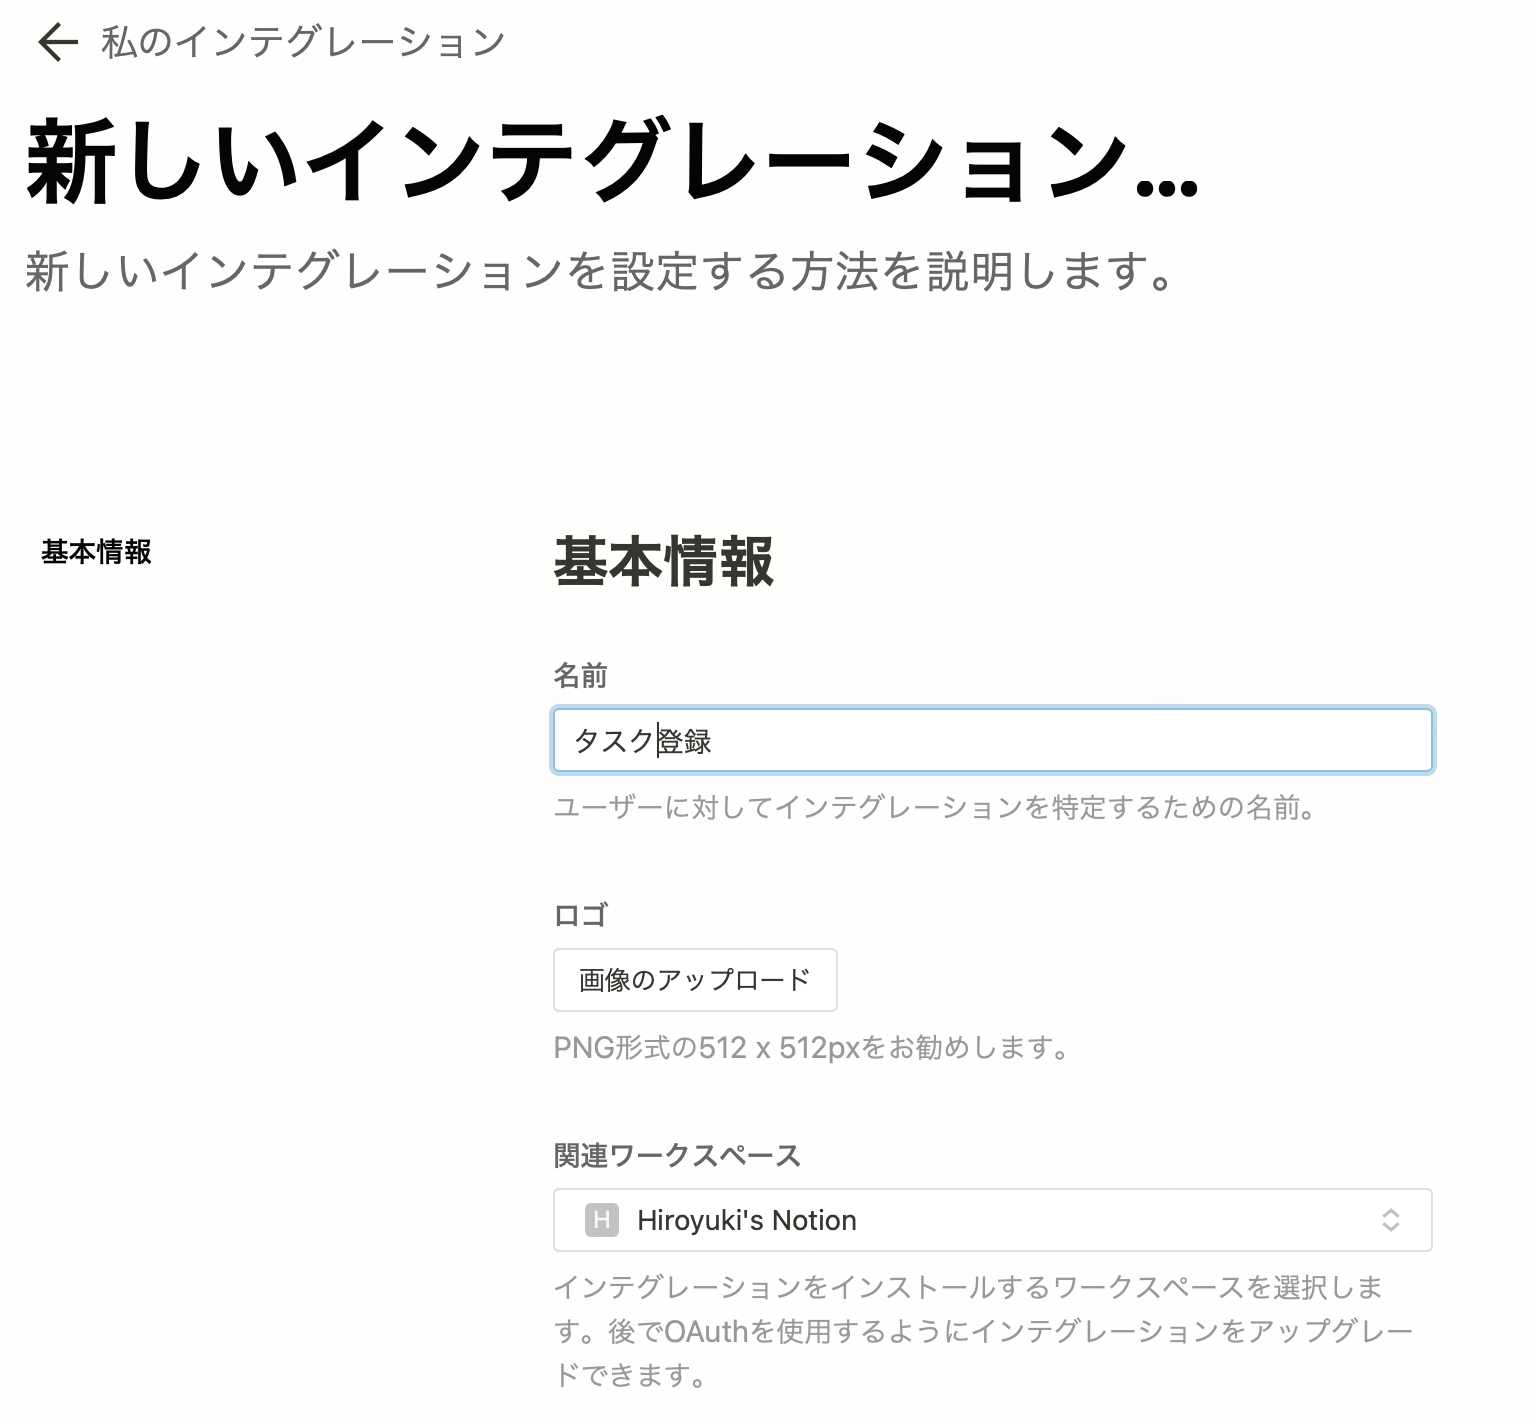
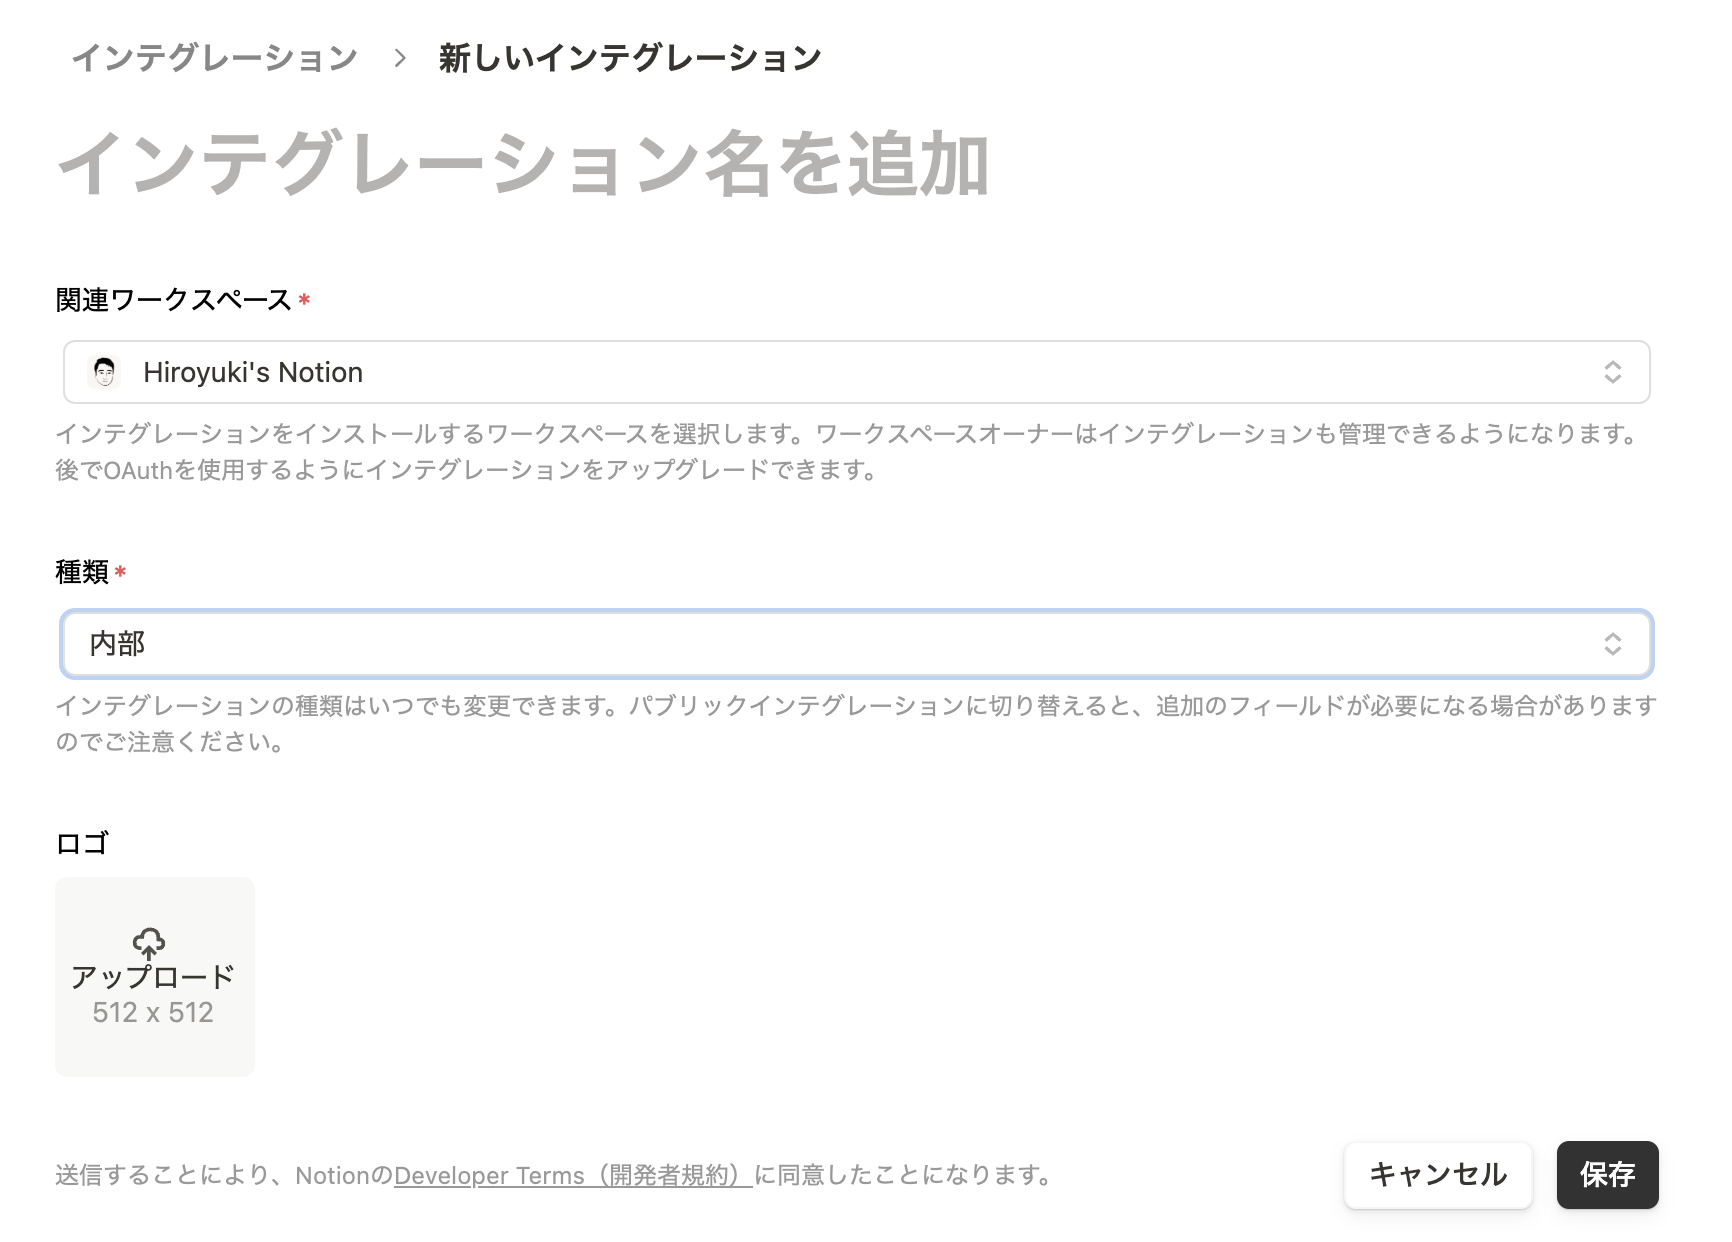
Changed database query to search endpoint

diff --git a/notion-code-block-quick-action.js b/notion-code-block-quick-action.js
@@ -1,8 +1,6 @@
 // ########## Personal settings ##########
-// Set your Notion API Token (strings that starts with `secret_`)
+// Set your Notion API Token (strings that starts with `ntn_` or `secret_`)
 const NOTION_API_TOKEN = "secret_XXXXXXXXXXXXXXXXXXXXXXXX"
-// Set your database ID (32-digits hex number)
-const DATABASE_ID = "YYYYYYYYYYYYYYYYYYYYYYYYYYY"
 // Set default language
 const DEFAULT_LANGUAGE = "shell"
 // If you want to open a new task by Notion.app, set true.  If you want to open it by your default browser, set false.
@@ -34,28 +32,26 @@ function dialogText(app, input) {
 function sendNotion(app, url, payload, method) {
   const header = " --header 'Authorization: Bearer '" + NOTION_API_TOKEN + "'' "  +
     "--header 'Content-Type: application/json' " +
-    "--header 'Notion-Version: 2021-08-16' " +
+    "--header 'Notion-Version: 2022-06-28' " +
     "--data '"
-  const script = "curl -X " + method + " " + url + header + JSON.stringify(payload).replaceAll("'", '\'"\'"\'') + "'"
+  const script = "curl -X " + method + " " + url + header + payload.replaceAll("'", '\'"\'"\'') + "'"
   return JSON.parse(app.doShellScript(script))
 }
 
-function getNotionPages(app, payload, databaseId) {
-  const url = "https://api.notion.com/v1/databases/" + databaseId + "/query"
+function getNotionPages(app, payload) {
+  const url = "https://api.notion.com/v1/search"
   return sendNotion(app, url, payload, "POST")
 }
 
-function getLastEditedPage(app, databaseId) {
+function getLastEditedPage(app) {
   const payload = {
-    sorts: [
-      {
-        timestamp: "last_edited_time",
-        direction: "descending"
-      }
-    ],
+    sort: {
+      timestamp: "last_edited_time",
+      direction: "descending"
+    },
     page_size: 1
   }
-  return getNotionPages(app, payload, databaseId)
+  return getNotionPages(app, JSON.stringify(payload))
 }
 
 function appendBlockChildren(app, pageId, payload) {
@@ -66,26 +62,23 @@ function appendBlockChildren(app, pageId, payload) {
 function appendCodeBlock(app, page, code, language) {
   if (page) {
     const pageId = page.id
+    let texts = []
+    for (let i = 0; i < code.length; i+=1990) {
+      texts.push({type: "text", text: {content: code.slice(i, i+1990)}})
+    }
     const payload = {
       children: [
         {
           type: "code",
           object: "block",
           code: {
-            text: [
-              {
-                type: "text",
-                text: {
-                  content: code
-                }
-              }
-            ],
+            rich_text: texts,
             language: language
           }
         }
       ]
     }
-    const result = appendBlockChildren(app, pageId, payload)
+    const result = appendBlockChildren(app, pageId, JSON.stringify(payload))
     return result.url
   } else {
     return null
@@ -105,7 +98,7 @@ function run(input, parameters) {
       if (languages.indexOf(language) == -1) {
         language = "shell"
       }
-      const lastEditedPage = getLastEditedPage(app, DATABASE_ID).results[0]
+      const lastEditedPage = getLastEditedPage(app).results[0]
       appendCodeBlock(app, lastEditedPage, inputStr, language)
       var url = lastEditedPage.url
       if (OPEN_BY_APP == true) {

diff --git a/README.ja.md b/README.ja.md
@@ -1,11 +1,11 @@
 # notion-code-block-quick-action
 
-NotionCodeBlockQuickAction.workflow は選択したテキストを codeblock として、Notion のページに追加してくれる macOS サービスです。ページは指定したデータベースのうち、もっとも最近更新したものが選ばれます。
+NotionCodeBlockQuickAction.workflow は選択したテキストを codeblock として、Notion のページに追加してくれる macOS サービスです。追加先はインテグレーションを設定したページのうち、もっとも最近更新したものが選ばれます。
 
 ## インストール方法
 
 - 以下のリンクから NotionCodeBlockQuickAction.workflow をダウンロードします。
-[https://github.com/hkob/notion-code-block-quick-action/releases/download/1.0/NotionCodeBlockQuickAction.workflow.zip]
+[https://github.com/hkob/notion-code-block-quick-action/releases/download/1.1/NotionCodeBlockQuickAction.workflow.zip]
 
 - zip ファイルのままの場合には展開します。
 - workflow を実行します。
@@ -28,16 +28,12 @@ open $HOME/Library/Services/NotionCodeBlockQuickAction.workflow
 
 ![Install](Automator-J.png)
 
-- Rewrite some values
-
-- 先頭部分に以下の 4 つの設定項目が変数で定義されています。自分のものに合わせて中身を修正してください。なお、NOTION_API_TOKEN や DATABASE_ID についてわからない人は、下の NOTION API の設定を先に実施してから、値を設定してください。
+- 先頭部分に以下の 3 つの設定項目が変数で定義されています。自分のものに合わせて中身を修正してください。なお、NOTION_API_TOKEN についてわからない人は、下の NOTION API の設定を先に実施してから、値を設定してください。
 
 ```Javascript
 // ########## Personal settings ##########
 // Notion API Token を設定します (`secret_` で始まる文字列です)。
 const NOTION_API_TOKEN = "secret_XXXXXXXXXXXXXXXXXXXXXXXX"
-// 登録するタスクデータベースの ID を設定します (32桁の16進数です)。
-const DATABASE_ID = "YYYYYYYYYYYYYYYYYYYYYYYYYYY"
 // デフォルトの言語
 const DEFAULT_LANGUAGE = "shell"
 // 登録後にページが開きます。Notion.app で開きたい人は true にしてください。false にするとデフォルトブラウザで開きます。
@@ -49,41 +45,28 @@ const OPEN_BY_APP = true
 初めての人のために、Notion API の設定方法も説明しておきます。
 
 - 最初に Notion の設定を開き、インテグレーションタブを開きます。
-![インテグレーション画面](Integration-J.png)
+![コネクト画面](Connections-J.png)
 
-- 次に「独自のインテグレーションを開始する」をクリックします。以下のような画面になるので、「新しいインテグレーション」をクリックします。
-![私のインテグレーション](myIntegration-J.png)
+- 次に「インテグレーションを作成または管理する」をクリックします。以下のような画面になるので、「新しいインテグレーション」をクリックします。
+![インテグレーション](myIntegration-J.png)
 
-- 上の部分の名前、画像は好きなものを設定してください。ワークスペースは自動的に設定されているはずです。複数のワークスペースを持っている人は利用するワークスペースを選択してください。
+- 「インテグレーション名を追加」の部分の名前を設定し、ワークスペースを複数持っている人は利用するワークスペースを選択してください。画像は好きなものを設定してください。なくても問題ありません。ここで保存をするとインテグレーションが作成されます。
 ![新しいインテグレーション](newIntegration0-J.png)
 
-- コンテンツ機能は今回すべてチェックします。ユーザに関する情報は必要ないので、ユーザー情報なしでよいです。
-![新しいインテグレーション](newIntegration1-J.png)
+- 以前は、機能は保存前に設定していましたが、最近は保存後に設定するようになりました。コンテンツ機能は今回すべてチェックします(デフォルトでこうなっています)。ユーザに関する情報は必要ないので、ユーザー情報なしでよいです。
+![追加されたインテグレーション](newIntegration1-J.png)
 
-- 送信をクリックすると画面が変わり、上にシークレットが表示されます。「表示」をクリックすると `secret_` で始まる文字列が表示されます。右にあるコピーをクリックするとクリップボードにコピーされるので、NotionQuickAction の NOTION_API_TOKEN の部分に貼り付けてください。
+- 内部インテグレーションシークレットの部分にシークレットが表示されます。「表示」をクリックすると`ntn_`で始まる文字列が表示されます(以前は`secret_`でしたが、最近変更になっています)。右にあるコピーをクリックするとクリップボードにコピーされるので、NotionQuickAction の NOTION_API_TOKEN の部分に貼り付けてください。
 ![シークレット](secret-J.png)
 
 ## インテグレーションの許可
 
-次に登録するデータベースを開きます。リンクドデータベースがある場合には、`右上矢印 + データベース名` の部分をクリックすればデータベースのページが単体で開きます。インラインのデータベースの場合には、`...` から「ページとして開く」をクリックして開きます。
-![ページとして開く](openAsPage-J.png)
+次に利用するデータベースを開きます。リンクドビューの場合には、ビューのタイトルの場所で右ボタンメニューを表示し、「ソースデータベースを開く」としてデータベース本体を開きます。
+![ページとして開く](OpenSourceDatabase-J.png)
 
-このデータベースを API からアクセスできるように、右上の`共有`で開くダイアログにて先ほど作成したインテグレーションを招待します。
-追加ができるように編集権限を与えてください。
+このデータベースを API からアクセスできるように、右上の「…」から「接続」を選び、インテグレーションキーを選択します。
 
-![ShareIntegration](ShareForIntegration-J.png)
-
-## データベース id の取得
-
-最後に DATABASE_ID を取得します。許可したデータベースをページで表示した状態で、メニューから「リンクをコピー」をクリックします。
-
-![リンクをコピー](CopyLink-J.png)
-
-コピーしたリンクは以下の形式になっています。この 32 桁の XXXX... の部分がデータベース ID になります。この部分だけを取り出して、ワークシートの DATABASE_ID に設定してください。
-
-```text
-https://www.notion.so/hkob/XXXXXXXXXXXXXXXXXXXXXXXXXXXXXXXX?v=YYYYYYYYYYYYYYYYYYYYYYYYYYYYYYYY
-```
+![接続](Connect-J.png)
 
 ## 使い方
 
@@ -101,9 +84,11 @@ Notion アプリで表示したい人は OPEN_BY_APP を true に、ブラウザ
 
 ![movie](NotionCodeBlockQuickAction.gif)
 
-- [blog in Japanese](https://hkob.hatenablog.com/entry/2022/01/10/133000)
+- [blog in Japanese](https://hkob.hatenablog.com/entry/2024/12/16/0500000)
 
 ## 更新履歴
 
+- Ver. 1.1
+  - Database の query を search end point に変更
 - Ver. 1.0
   - 最初のリリース

diff --git a/README.md b/README.md
@@ -1,74 +1,94 @@
 # notion-code-block-quick-action
 
-a macOS service to append a new code block to the most recent updated page
+NotionCodeBlockQuickAction.workflow is a macOS service that adds selected text as a codeblock to your Notion pages. It will be added to the most recently updated page among those configured with the integration.
 
 [日本語版 README はこちら](README.ja.md)
 
 ## How to install
 
-- Download workflow from here
-[https://github.com/hkob/notion-code-block-quick-action/releases/download/1.0/NotionCodeBlockQuickAction.workflow.zip]
+- Download NotionCodeBlockQuickAction.workflow from the link below.
+[https://github.com/hkob/notion-code-block-quick-action/releases/download/1.1/NotionCodeBlockQuickAction.workflow.zip]
 
-- Unpack the zip file
-- Down click the workflow file
-- Click Install in the following dialog
+- If the file is still in zip format, extract it.
+- Run the workflow.
+- The following screen will appear, click Install.
 
 ![Install](QuickActionInstaller-E.png)
 
-- Enable `NotionQuickAction` and set a shortcut key.  In this figure, I set `option` + `command` + N.
+- Enable `NotionQuickAction` and set a shortcut key.  In this figure, I set `option` + `command` + P.
 
 ![Install](Service-E.png)
 
-- Open Terminal software.
-- Open NotionQuickAction.workflow by the following terminal command.
+- Launch Terminal.
+- Type the following command to open NotionCodeBlockQuickAction.workflow:
 
 ```sh
-open $HOME/Library/Services/NotionQuickAction.workflow
+open $HOME/Library/Services/NotionCodeBlockQuickAction.workflow
 ```
 
-- We can see a JXA code in a `Run JavaScript` action.
-
+- Automator will open and you will see a screen like the one below. The JXA code (JavaScript version of AppleScript) is displayed in the Run Javascript section at the top.
 ![Install](Automator-E.png)
 
-- Rewrite some values
-
-The following 4 values must be adjust to your environment.
-In you don't know about NOTION_API_TOKEN and DATABASE_ID,
-please read the below Notion API setup.
+The following 3 configuration items are defined as variables at the beginning. Please modify the contents to match your own settings. If you are not familiar with the NOTION_API_TOKEN, please set up the NOTION API settings below first, then set the value.
 
 ```Javascript
 // ########## Personal settings ##########
 // Set your Notion API Token (strings that starts with `secret_`)
 const NOTION_API_TOKEN = "secret_XXXXXXXXXXXXXXXXXXXXXXXX"
-// Set your database ID (32-digits hex number)
-const DATABASE_ID = "YYYYYYYYYYYYYYYYYYYYYYYYYYY"
 // Set default language
 const DEFAULT_LANGUAGE = "shell"
 // If you want to open a new task by Notion.app, set true.  If you want to open it by your default browser, set false.
 const OPEN_BY_APP = true
 ```
 
-## Notion API setup
+For those who are new, I will also explain how to set up the Notion API.
 
-Next, set API setting. Please see Getting Started in the Notion Developer page. Please remind NOTION_API_TOKEN and database_id for the above database (DATABASE_ID), and invite your integration to the databases.
+- First, open Notion settings and go to the Connections tab.
+![Connections](Connections-E.png)
 
-![Share for integration](ShareForIntegration-E.png)
+- Next, click on "Create or manage integrations". The following screen will appear, then click on "New integration".
+![Integration](myIntegration-E.png)
+
+- Set a name in the "Add integration name" field, and if you have multiple workspaces, select the workspace you want to use. You can set any image you like for the icon. It's fine if you don't set one. Once you click save, the integration will be created.
+![New integration](newIntegration0-E.png)
+
+- Previously, features were configured before saving, but recently it has been changed to configure after saving. We will check all content capabilities this time (this is the default). Since we don't need user-related information, you can leave user information unchecked.
+![Added integration](newIntegration1-E.png)
+
+- The internal integration secret will be displayed in the secret section. Click "Show" to display a string that starts with `ntn_` (it used to start with `secret_`, but this has recently changed). Click the copy button on the right to copy it to your clipboard, then paste it into the NOTION_API_TOKEN section of NotionQuickAction.
+![Secret](Secret-E.png)
+
+## Integration Authorization
+
+Next, open the database you want to use. For linked views, right-click on the view title and select "Open source database" to access the main database.
+
+![Open source database](openSourceDatabase-E.png)
+
+To enable API access to this database, click on "..." in the top right, select "Connections", and choose your integration key.
+
+![Connect](Connect-E.png)
 
 ## How to use
 
-Any application that allows text selection can be used.
-After you selected some text, press the shortcut key for NotionCodeBlockQuickAction.
-Then, type the language for the selected text.
-If you don't input any text or input an illegal language,
-DEFAULT_LANGUAGE is used for the language for the selected text.
+This service can be used in any application that allows text selection and supports services.
+(Note: VSCode does not seem to support text services. Please use the [VSCode extension](https://github.com/hkob/code-block-to-notion) instead.)
 
-After you press the return key or press the `CONTINUE` button, a code block is appended to the most recent page in the database in a few seconds and is displayed in Notion.app or your default browser.
+After selecting text and typing the shortcut key, a language selection screen will appear.
+The available languages are shown in the list, so please type one of the displayed options.
+If no language is set or if you set a language that doesn't exist in the list, it will automatically use the language specified in DEFAULT_LANGUAGE.
+By default, it's set to shell. Please change it to the language you use most frequently.
+
+After setting the language, a code block will be added to the bottom of your most recently edited page.
+Afterwards, the page will open either in the Notion app or your default browser.
+If you want to open it in the Notion app, set OPEN_BY_APP to true; if you prefer the browser, set it to false.
 
 ![movie](NotionCodeBlockQuickAction.gif)
 
-- [blog in Japanese](https://hkob.hatenablog.com/entry/2022/01/10/133000)
+- [blog in Japanese](https://hkob.hatenablog.com/entry/2024/12/16/0500000)
 
 ## Change Log
 
+- Ver. 1.1
+  - Changed database query to search endpoint
 - Ver. 1.0
   - First release
